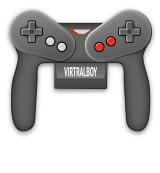
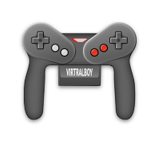
add gw to arch

diff --git a/arch/source/app.cpp b/arch/source/app.cpp
@@ -148,6 +148,8 @@ App::App()
                            {{"PCSX ReARMed", "pcsx_rearmed"}}),
         },
         {
+            new CoreButton(GW, // 1980
+                           {{"Handheld Electronic (GW)", "gw"}}),
             new CoreButton(LYNX, // 1989
                            {{"Beetle Lynx", "mednafen_lynx"},
                             {"Handy", "handy"}}),

diff --git a/arch/source/defines.cpp b/arch/source/defines.cpp
@@ -27,4 +27,5 @@ const char *CONSOLE_NAMES[] = {
     "WSC",
     "GBA",
     "ARC",
+    "GW",
 };

diff --git a/arch/source/defines.h b/arch/source/defines.h
@@ -40,6 +40,7 @@ enum CONSOLE
     WSC,
     GBA,
     ARC,
+    GW,
     CONSOLE_COUNT
 };
 